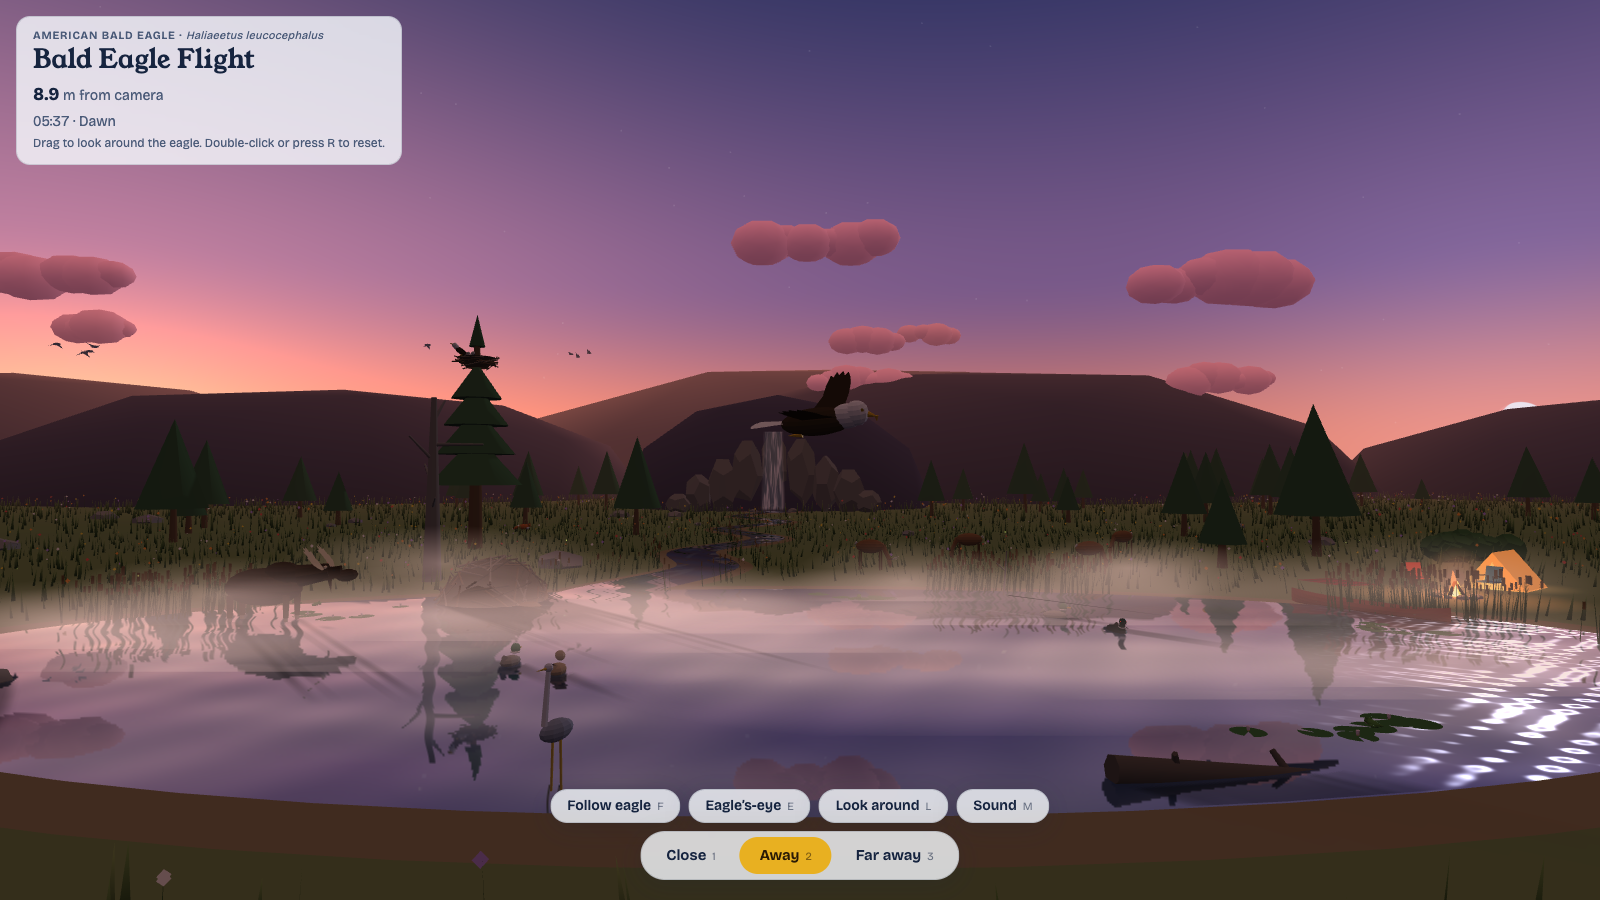
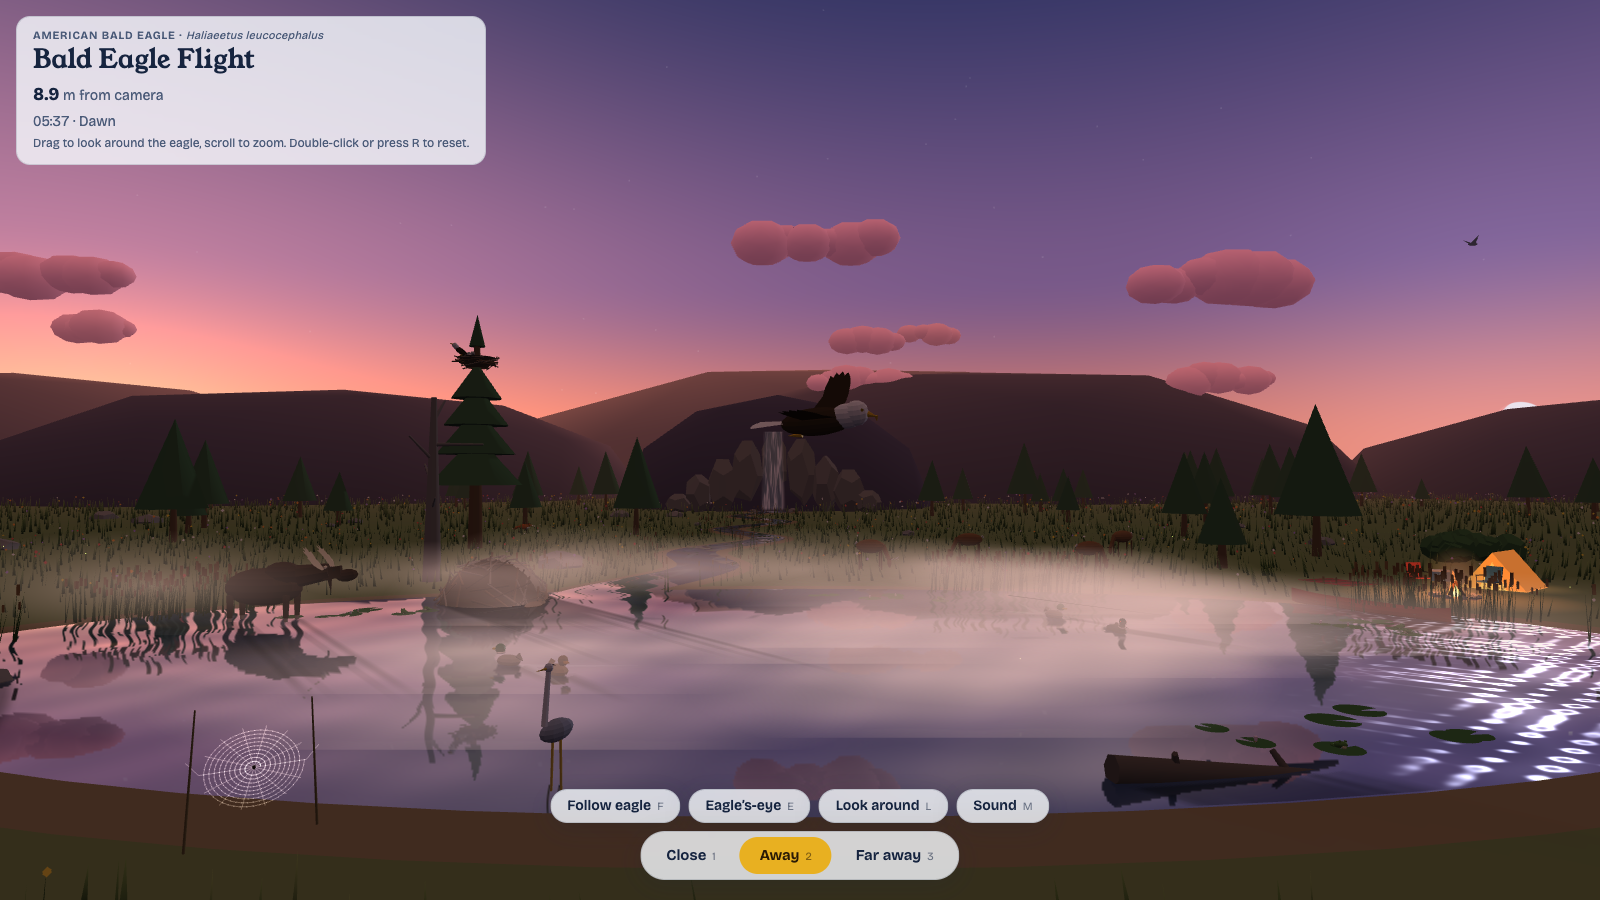
Update README screenshot to show the spider's web and zoom hint
Claude-Session: https://claude.ai/code/session_016x3M1bdifzXgNFGSBJFckF

diff --git a/README.md b/README.md
@@ -2,7 +2,7 @@
 
 An animated 3D scene of an American bald eagle (*Haliaeetus leucocephalus*) over a lake. The day loops continuously, with weather, wildlife and a lakeside campsite. Everything lives in a single file, `bald-eagle-flight.html`, built with [three.js](https://threejs.org/) r128.
 
-![The eagle gliding over the misty lake at dawn in front of the waterfall and its stream, with the nest pine, the beavers' lodge and a wading moose on the left, ducks and a heron on the water, the turtles' log in front and the campsite tent on the far shore](docs/screenshot.png)
+![The eagle gliding over the misty lake at dawn in front of the waterfall and its stream, with the nest pine, the beavers' lodge and a wading moose on the left, ducks and a heron on the water, a dewy spider's web and the turtles' log in front and the campsite tent on the far shore](docs/screenshot.png)
 
 ## Running it
 
